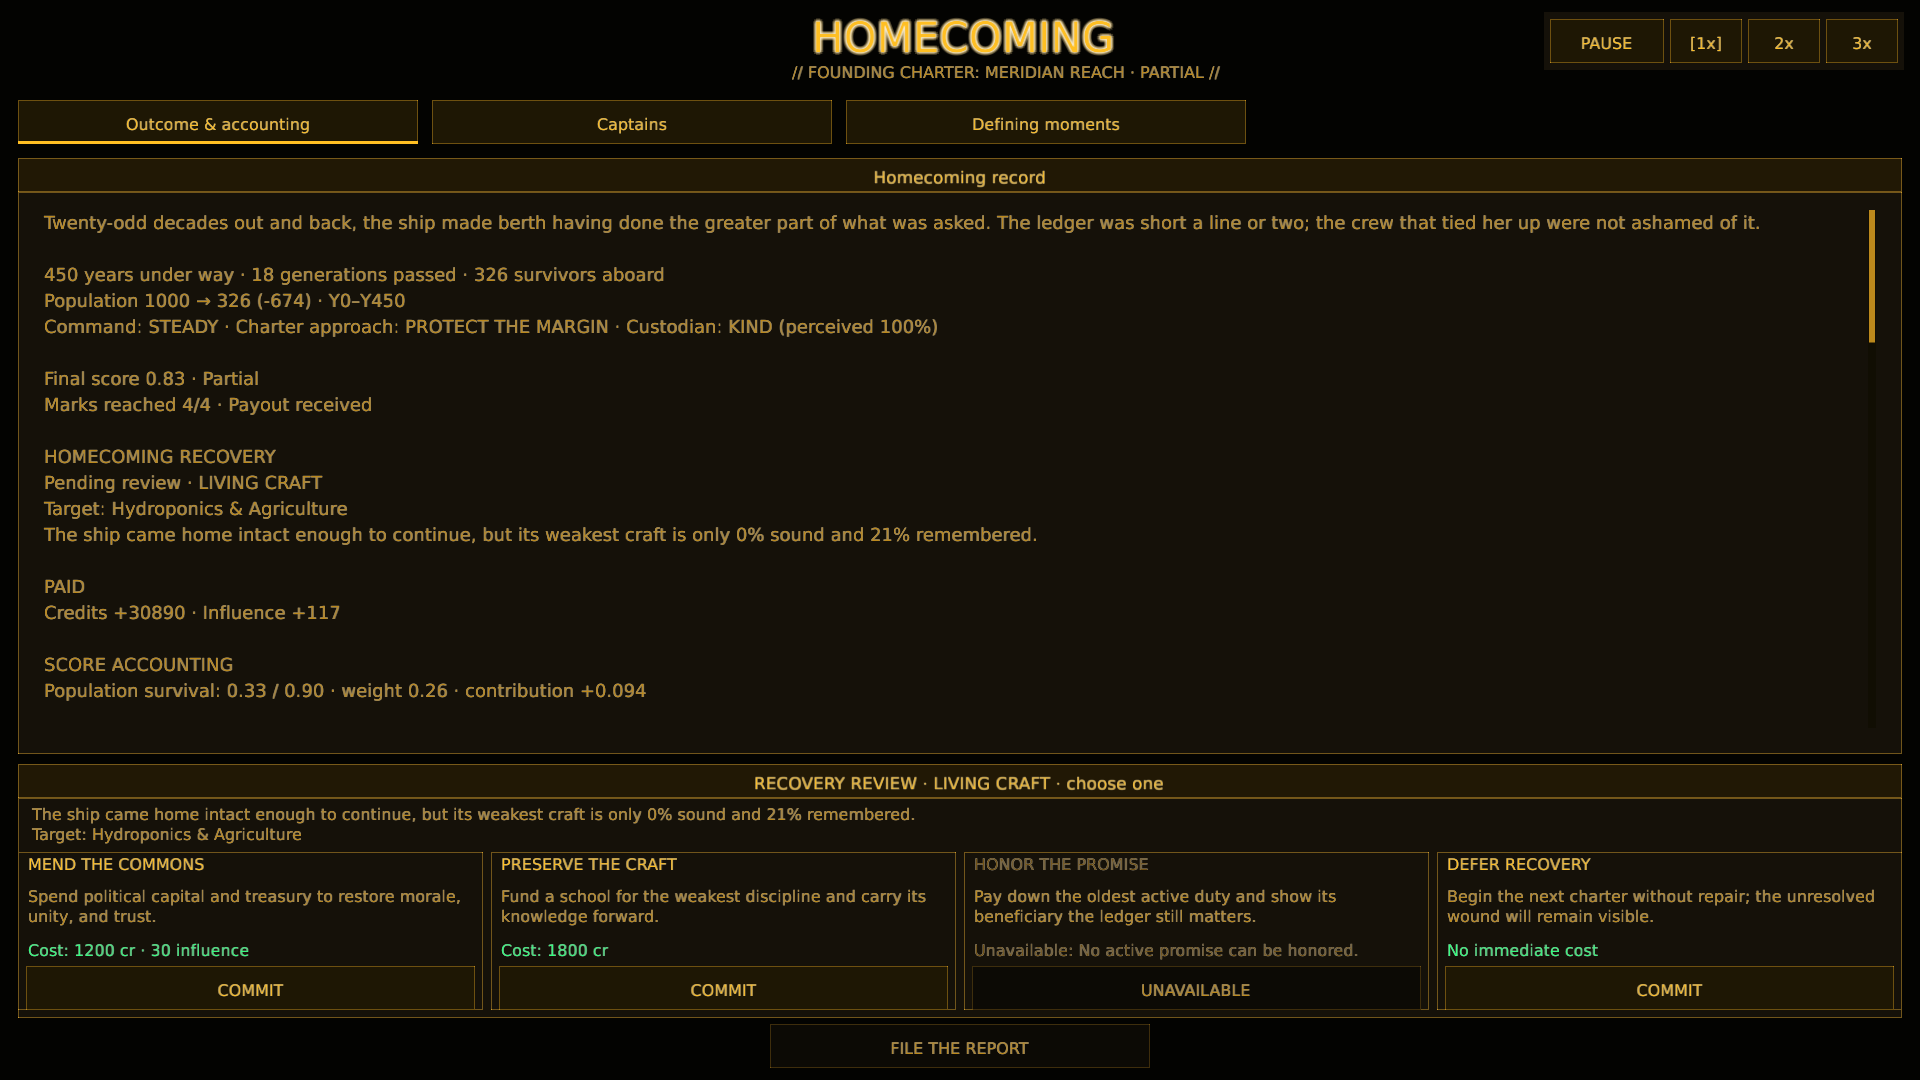
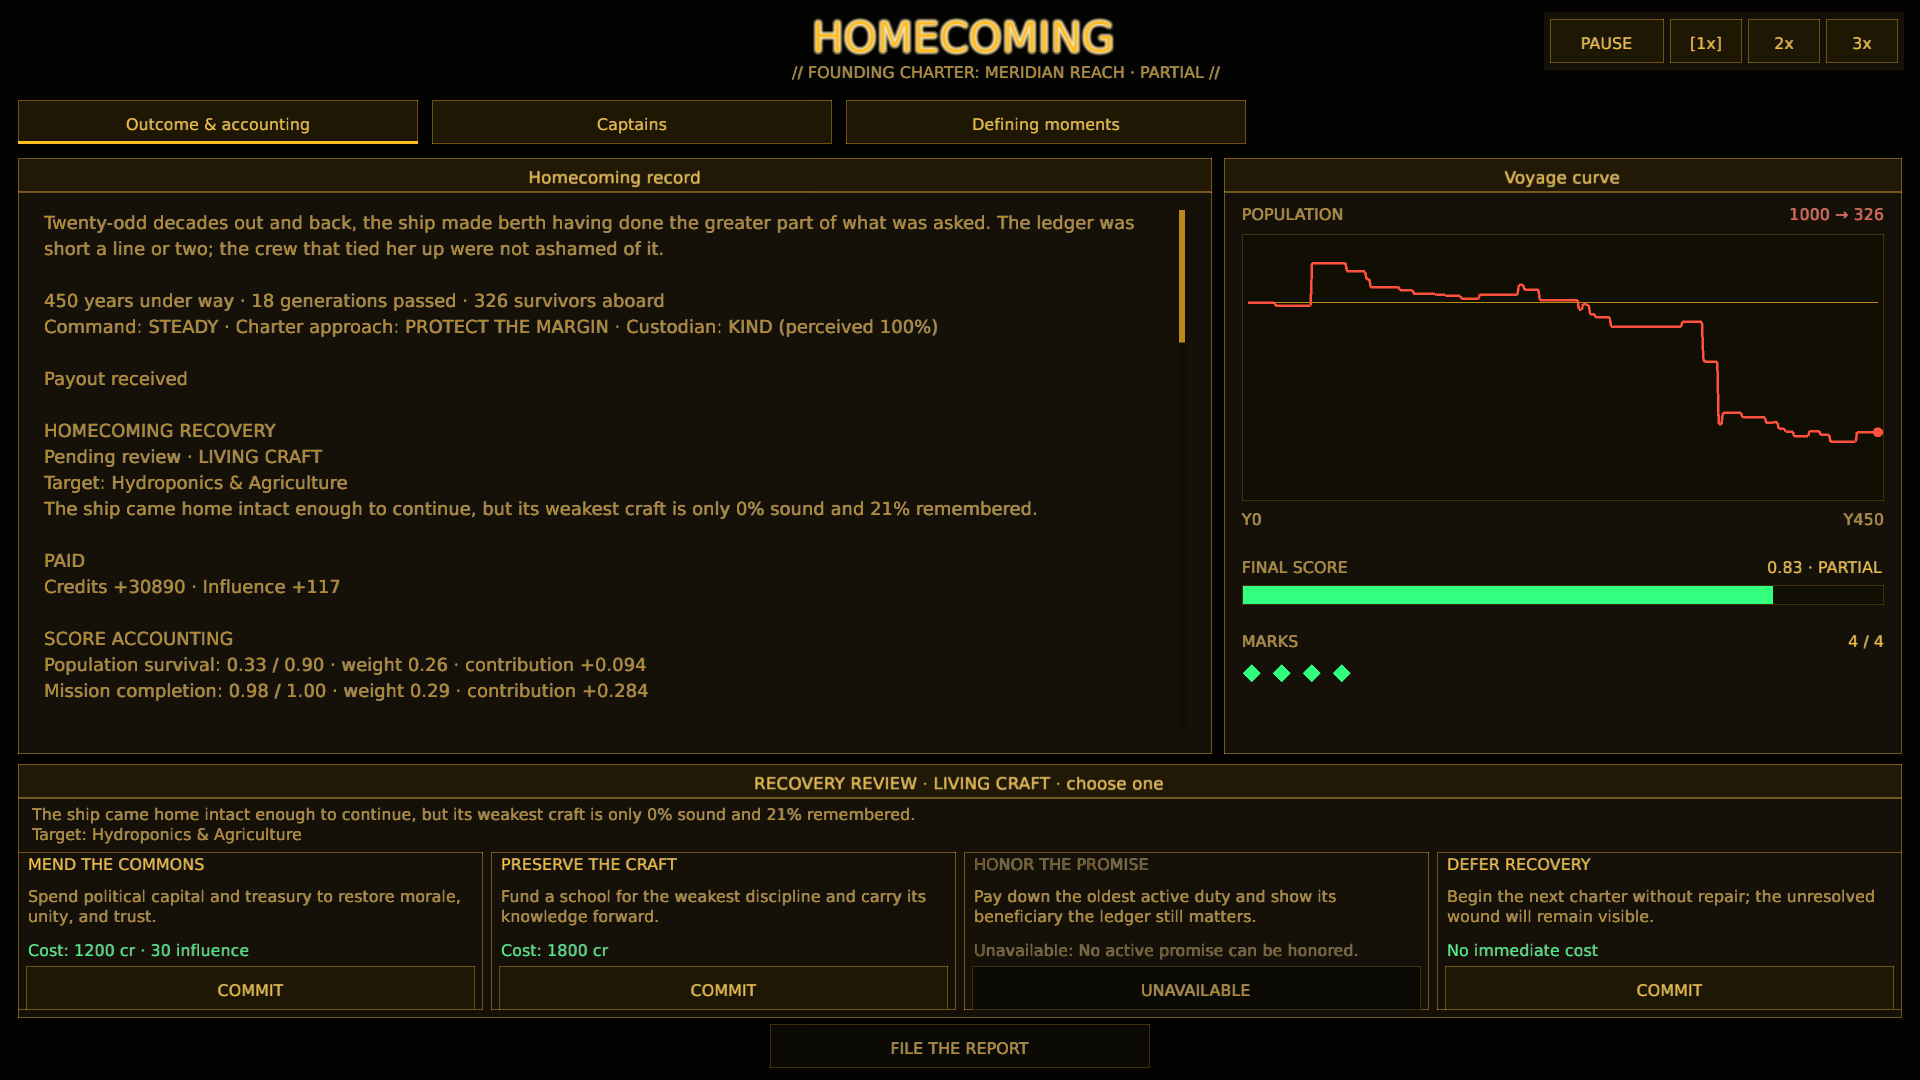
The homecoming draws the generations it carried (Homecoming population curve)
The homecoming report gave the whole voyage's population as one line,
"Population 1000 → 326 (-674) · Y0–Y450", with the score and marks as
further lines (UI_TEXT_REVIEW item 8).

`ActiveContract` now keeps a `#[serde(default)]` `population_track`,
seeded at launch and sampled once per charter year by
`sample_population_track` in the monthly tick. The sample is keyed on
the track's length, so a fuel-stalled clock that sits on a year
boundary does not sample twice. `VoyageDebrief` seals that track plus
the berth head count. The outcome page now splits: the record on the
left and a new "Voyage curve" panel (`debrief/curve.rs`) on the right
with the population line against a launch reference, the year span,
the final score as a gauge, and the marks as diamonds. Reports sealed
before the track existed draw a straight launch-to-berth line. The
population, score and marks lines left the text record.

Formatting, strict all-target Clippy and the full test suite including
code standards pass. Homecoming was recaptured at 1920x1080 and read
back, showing a real 450-year track.

diff --git a/src/ui/debrief/curve.rs b/src/ui/debrief/curve.rs
@@ -1,0 +1,110 @@
+//! The homecoming's voyage curve: population year by year from launch to
+//! berth, the final score as a gauge, and the marks as diamonds. Replaces the
+//! "Population 1000 → 326 (-674)", "Final score 0.83" and "Marks reached 4/4"
+//! report lines (docs/UI_TEXT_REVIEW.md, item 8).
+
+use super::*;
+use crate::ui::chart;
+
+pub(super) fn draw(report: &VoyageDebrief, area: Rect) {
+    let content = column_panel(area, "Voyage curve");
+    let mut y = content.y + 18.0;
+    let change = report.population_change();
+    let tone = if change < 0 {
+        term::alert()
+    } else {
+        term::accent()
+    };
+    heading(
+        content,
+        y,
+        "POPULATION",
+        &format!("{} → {}", report.population_start, report.population_end),
+        tone,
+    );
+    let plot = Rect::new(content.x, y + 14.0, content.w, (content.h * 0.5).max(160.0));
+    draw_population(report, plot, tone);
+    y = plot.bottom() + 24.0;
+    let years = TextStyle::new(16.0, term::dim());
+    draw_ui_text_ex(
+        &format!("Y{}", report.began_year),
+        content.x,
+        y,
+        years.params(),
+    );
+    let end = format!("Y{}", report.ended_year);
+    let w = measure_text_size(&end, years).width;
+    draw_ui_text_ex(&end, content.right() - w, y, years.params());
+
+    y += 48.0;
+    heading(
+        content,
+        y,
+        "FINAL SCORE",
+        &format!("{:.2} · {}", report.score, report.outcome.to_uppercase()),
+        term::primary(),
+    );
+    chart::gauge(
+        Rect::new(content.x, y + 12.0, content.w, 20.0),
+        report.score,
+        None,
+        term::accent(),
+    );
+
+    y += 74.0;
+    let (reached, total) = report.milestones_reached();
+    heading(
+        content,
+        y,
+        "MARKS",
+        &format!("{reached} / {total}"),
+        term::primary(),
+    );
+    for (index, milestone) in report.milestones.iter().enumerate() {
+        let color = if milestone.reached {
+            term::accent()
+        } else {
+            term::dim()
+        };
+        chart::marker(
+            vec2(content.x + 10.0 + index as f32 * 30.0, y + 26.0),
+            9.0,
+            color,
+        );
+    }
+}
+
+fn heading(content: Rect, y: f32, label: &str, value: &str, tone: Color) {
+    draw_ui_text_ex(
+        label,
+        content.x,
+        y,
+        TextStyle::new(16.0, term::dim()).params(),
+    );
+    let style = TextStyle::new(16.0, tone);
+    let w = measure_text_size(value, style).width;
+    draw_ui_text_ex(value, content.right() - w, y, style.params());
+}
+
+/// The recorded track, or a straight line from launch to berth for a report
+/// sealed before the track existed. A faint line marks the launch head count.
+fn draw_population(report: &VoyageDebrief, plot: Rect, tone: Color) {
+    draw_rectangle(plot.x, plot.y, plot.w, plot.h, term::surface_inset());
+    draw_rectangle_lines(plot.x, plot.y, plot.w, plot.h, 1.0, term::faint());
+    let values: Vec<f32> = if report.population_track.len() >= 2 {
+        report.population_track.iter().map(|v| *v as f32).collect()
+    } else {
+        vec![report.population_start as f32, report.population_end as f32]
+    };
+    let hi = values.iter().copied().fold(1.0, f32::max) * 1.1;
+    let inner = plot.inset(6.0);
+    let launch = chart::line_points(inner, &[report.population_start as f32], 0.0, hi);
+    if let Some(start) = launch.first() {
+        draw_line(inner.x, start.y, inner.right(), start.y, 1.0, term::dim());
+    }
+    let points = chart::line_points(inner, &values, 0.0, hi);
+    chart::polyline(&points, 2.5, tone);
+    if let Some(last) = points.last() {
+        draw_circle(last.x, last.y, 5.0, tone);
+    }
+}

diff --git a/src/ui/debrief/report.rs b/src/ui/debrief/report.rs
@@ -20,6 +20,17 @@ pub(super) fn draw(ctx: &GameplayCtx<'_>, report: &VoyageDebrief, area: Rect, po
     } else {
         accounting(report)
     };
+    // The outcome page shares its width with the voyage curve.
+    let area = if ctx.presentation.report_page.get() == 2 {
+        area
+    } else {
+        let curve_w = (area.w * 0.36).clamp(480.0, 680.0);
+        curve::draw(
+            report,
+            Rect::new(area.right() - curve_w, area.y, curve_w, area.h),
+        );
+        Rect::new(area.x, area.y, area.w - curve_w - 12.0, area.h)
+    };
     crate::ui::reading::read_lines(
         &text,
         column_panel(area, "Homecoming record").inset(8.0),
@@ -34,10 +45,10 @@ pub(super) fn draw(ctx: &GameplayCtx<'_>, report: &VoyageDebrief, area: Rect, po
 }
 
 pub(crate) fn accounting(r: &VoyageDebrief) -> String {
-    let mut text = format!("{}\n\n{} years under way · {} generations passed · {} survivors aboard\nPopulation {} → {} ({:+}) · Y{}–Y{}\nCommand: {} · Charter approach: {} · Custodian: {} (perceived {:.0}%)\n\nFinal score {:.2} · {}\n", r.homecoming_line.as_deref().unwrap_or("The ship has returned."), r.duration_years, r.generations, r.population_end, r.population_start, r.population_end, r.population_change(), r.began_year, r.ended_year, r.command_posture.label(), r.approach.label(), r.custodian_disposition(), r.custodian_empathy.clamp(0.0,1.0)*100.0, r.score, r.outcome);
-    let (reached, total) = r.milestones_reached();
+    // Population, score and marks are drawn on the voyage curve beside this.
+    let mut text = format!("{}\n\n{} years under way · {} generations passed · {} survivors aboard\nCommand: {} · Charter approach: {} · Custodian: {} (perceived {:.0}%)\n\n", r.homecoming_line.as_deref().unwrap_or("The ship has returned."), r.duration_years, r.generations, r.population_end, r.command_posture.label(), r.approach.label(), r.custodian_disposition(), r.custodian_empathy.clamp(0.0,1.0)*100.0);
     text.push_str(&format!(
-        "Marks reached {reached}/{total} · {}\n",
+        "{}\n",
         if r.unpaid() {
             "No payout"
         } else {

diff --git a/src/simulation/tick.rs b/src/simulation/tick.rs
@@ -107,6 +107,7 @@ fn advance_month(sim: &mut SimState, data: &GameData, report: &mut TickReport) -
         return true;
     }
     month_of_contract(sim, data, report);
+    sample_population_track(sim);
     report.leader_died = false;
     mortality::monthly_tick(sim, data, report);
 
@@ -126,6 +127,18 @@ fn advance_month(sim: &mut SimState, data: &GameData, report: &mut TickReport) -
         || report.terminal.is_some()
         || report.critical_warning
         || report.phase_changed.is_some()
+}
+
+/// One population sample per charter year. Keyed on the track's length, so a
+/// fuel-stalled clock that sits on a year boundary does not sample twice.
+fn sample_population_track(sim: &mut SimState) {
+    let count = sim.population.count;
+    if let Some(contract) = sim.contract.as_mut() {
+        let year = (contract.months_elapsed / 12) as usize;
+        if contract.population_track.len() == year {
+            contract.population_track.push(count);
+        }
+    }
 }
 
 fn record_terminal(sim: &mut SimState, data: &GameData, report: &mut TickReport) -> bool {

diff --git a/src/state/sim/debrief.rs b/src/state/sim/debrief.rs
@@ -130,6 +130,10 @@ pub struct VoyageDebrief {
     pub institutions: Vec<InstitutionRecord>,
     pub population_start: u32,
     pub population_end: u32,
+    /// Population at each charter year then at berth, oldest first. Empty on
+    /// reports sealed before the track existed.
+    #[serde(default)]
+    pub population_track: Vec<u32>,
     /// The authored homecoming prose for this outcome band, if the pool had a
     /// line for it.
     pub homecoming_line: Option<String>,
@@ -164,6 +168,7 @@ impl Default for VoyageDebrief {
             institutions: Vec::new(),
             population_start: 0,
             population_end: 0,
+            population_track: Vec::new(),
             homecoming_line: None,
             legacy_line: None,
             recovery: None,

diff --git a/src/state/sim/contract.rs b/src/state/sim/contract.rs
@@ -196,6 +196,10 @@ pub struct ActiveContract {
     pub milestones: Vec<MilestoneState>,
     /// Population when the contract began, for the survival metric.
     pub starting_population: u32,
+    /// Population at the start of each charter year, index 0 = launch. Drawn
+    /// as the homecoming curve; older saves load with none.
+    #[serde(default)]
+    pub population_track: Vec<u32>,
     /// Quantified objective amount for full pay (W2), copied from the charter.
     pub objective_target: f32,
     /// Human unit for the objective counter.

diff --git a/src/simulation/debrief.rs b/src/simulation/debrief.rs
@@ -112,6 +112,12 @@ pub fn seal(
         institutions,
         population_start: contract.starting_population,
         population_end: sim.population.count,
+        population_track: contract
+            .population_track
+            .iter()
+            .copied()
+            .chain(std::iter::once(sim.population.count))
+            .collect(),
         homecoming_line,
         legacy_line,
         recovery: Some(crate::simulation::homecoming::build_plan(sim, data)),

diff --git a/src/simulation/contract.rs b/src/simulation/contract.rs
@@ -307,6 +307,7 @@ pub fn start_contract(template: &ContractTemplate, sim: &SimState) -> ActiveCont
             })
             .collect(),
         starting_population: sim.population.count,
+        population_track: vec![sim.population.count],
         objective_target: template.objective_target,
         objective_unit: template.objective_unit.clone(),
         // A preserve charter (round 23) sets out *carrying* the full objective and only

diff --git a/src/ui/debrief.rs b/src/ui/debrief.rs
@@ -12,6 +12,7 @@
 //! recovery review.
 
 mod columns;
+mod curve;
 mod recovery;
 pub(crate) mod report;
 
